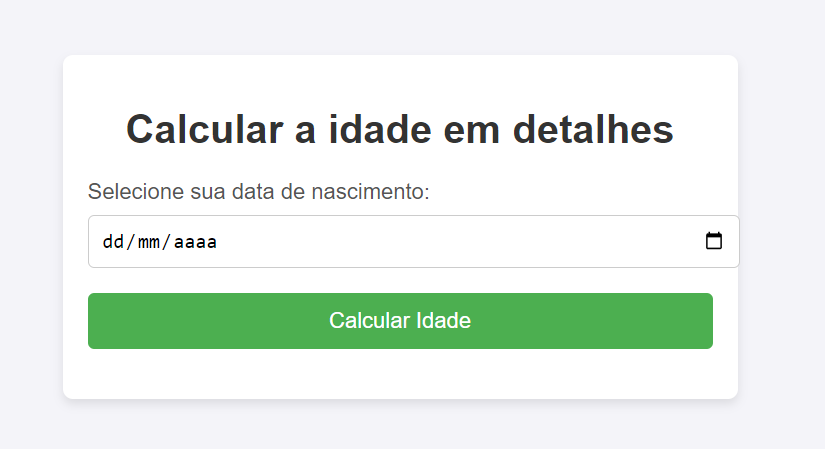
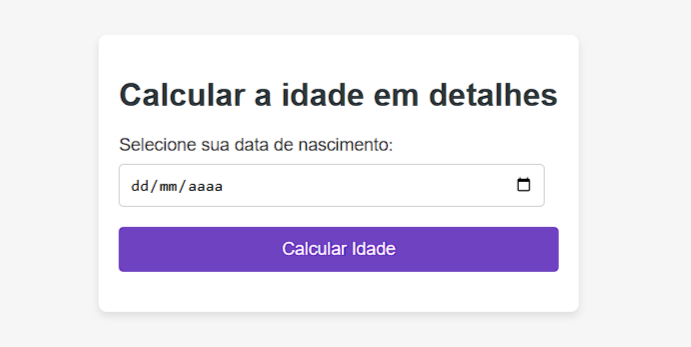
projeto GameShop adicionado, e modificação da imagens do projeto LifeClock

diff --git a/index.html b/index.html
@@ -91,6 +91,7 @@
         <!-- PORTFÓLIO -->
         <section class="container" id="portfolio">
             <h2 class="tituloCentral">Projetos</h2>
+
             <div class="card">
                 <h3>Time Clock</h3>
                 <div class="imagem-container">
@@ -110,6 +111,32 @@
                               Ver Projeto
                         </button>
                         <button class="repository" onclick="window.open('https://github.com/JohnathanTeles/LifeClock')">Repositório</button>
+                    </div>
+                </div>
+            </div>
+        </section>
+
+            <section class="container">
+            <div class="card">
+                <h3>Game Shop</h3>
+                <div class="imagem-container">
+                    <img src="imagem/img-projetos/lojadegames.png" alt="Projeto 1">
+                </div>
+                <div class="containerProjeto">
+                    <div class="title-container">
+                        <div class="icons">
+                            <img src="imagem/img-linguagens/html.png">
+                            <img src="imagem/img-linguagens/css.png">
+                            <img src="imagem/img-linguagens/js.png">                            <img src="imagem/img-linguagens/jquery.png">
+
+                        </div>
+                    </div>
+                    <p>Uma loja de jogos online onde os usuários podem navegar por um catálogo de produtos, adicionar itens ao carrinho, ajustar quantidades, remover produtos e finalizar a compra de forma intuitiva. O projeto também inclui um sistema de cadastro e login.</p>
+                    <div class="buttons">
+                        <button class="view-project" onclick="window.open('https://johnathanteles.github.io/Loja-De-Games/', '_blank')">
+                              Ver Projeto
+                            </button>
+                        <button class="repository" onclick="window.open('https://github.com/JohnathanTeles/Loja-De-Games')">Repositório</button>
                     </div>
                 </div>
             </div>
